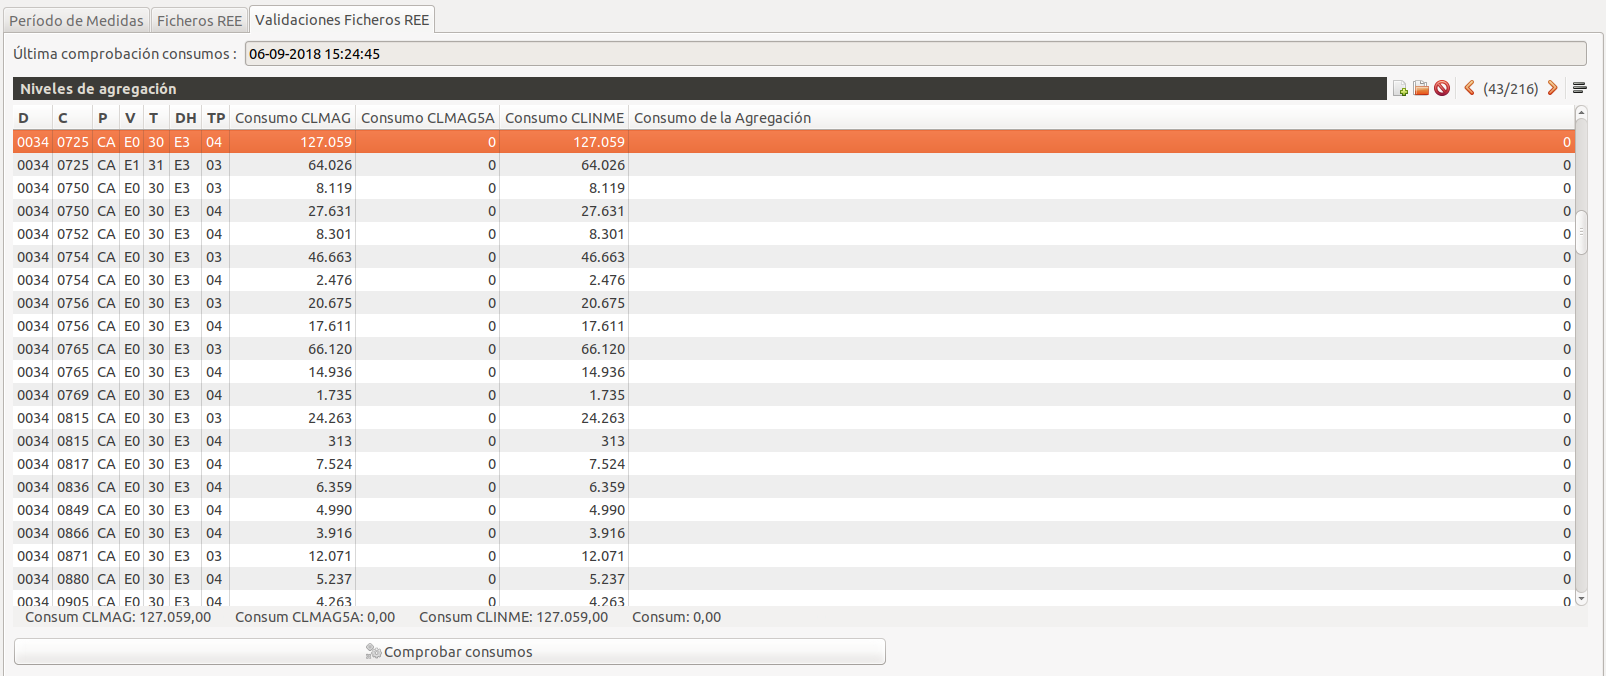
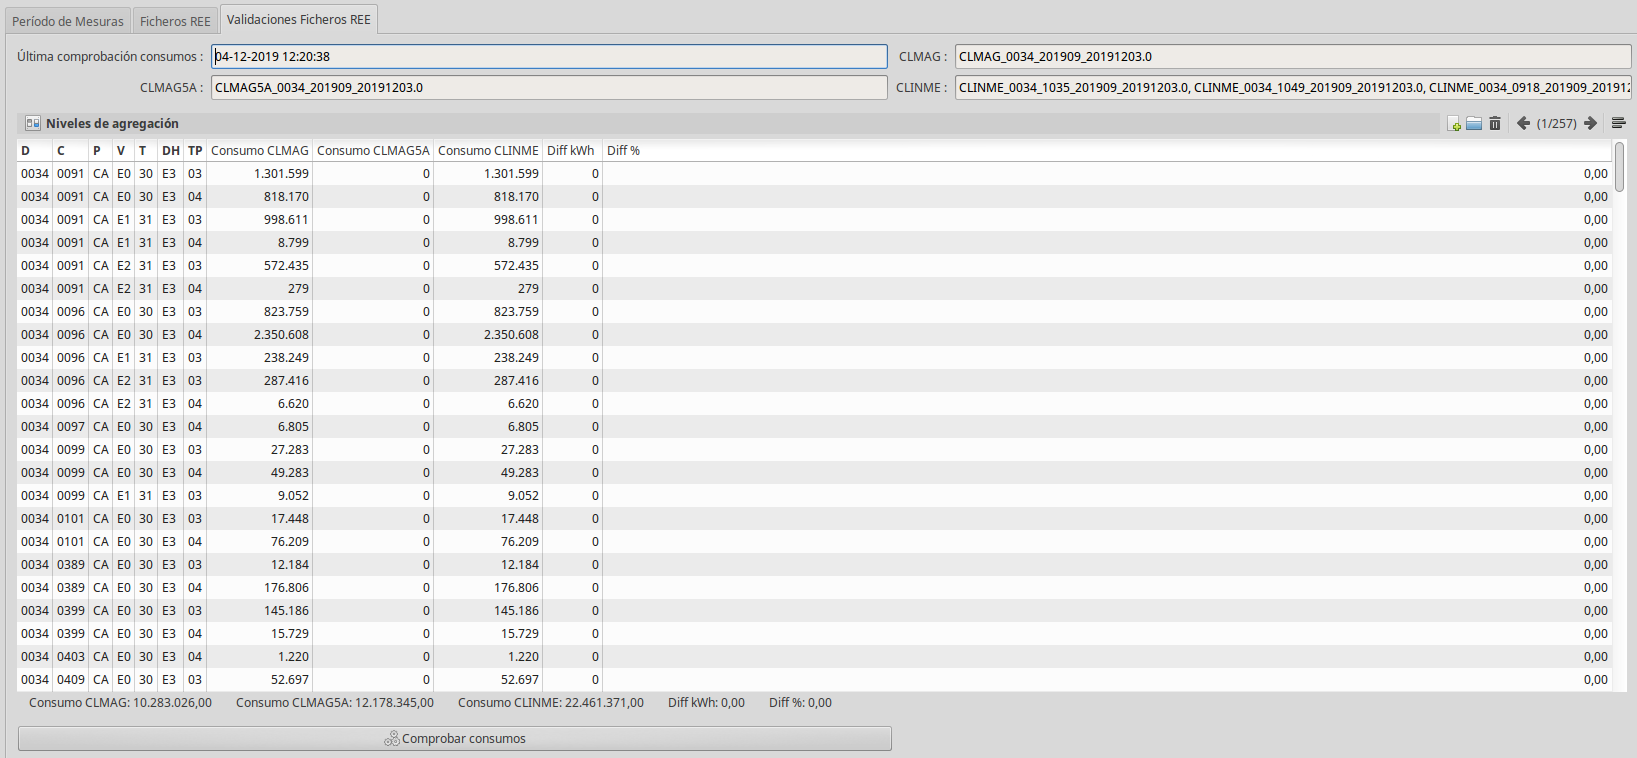
Add more medidas distri info

diff --git a/docs/distri/medidas.md b/docs/distri/medidas.md
@@ -20,10 +20,14 @@ factura o CUPS. Aquests es calculen automàticament a l'obrir la factura.
 
 * Períodes de Mesures: Mostra l'estat i el progrés dels períodes de mesures.
 * Tancaments: Visualitza les dates d'entrega dels fitxers de REE (M+1, M+3...).
+* Fitxers Exportats: Generació i emmagatzematge de fitxers desagregats.
 * Casos de perfilació: Casos CRM que reporten el comportament al perfilar.
 * Casos de mesures: Casos CRM que reporten el comportament al generar els
 fitxers de mesures.
 * Crear períodes de Mesures: Assistent que permet crear els períodes segons any.
+* Generar informe de consums: Assistent per generar un informe del consum per tarifa
+* configuració: Configuració general del módul
+
 
 ![](_static/medidas/menu_general.png)
 
@@ -158,6 +162,12 @@ pantalla com la imatge que segueix, o utilitzant el botó **Adjunts**.
 
 ![](_static/medidas/adjunts.png)
 
+!!! Info "Generació AGCL"
+    Per la generació de l'AGCL, es pot fer servir l'AGCL de l'operador del
+    sistema del mes passat, que porta l'inventari d'agregacions
+
+![](_static/medidas/generacion_agcl.png)
+
 ## Validacions fitxers REE
 
 ### Integritat de fitxers
@@ -170,7 +180,10 @@ validació agrega l'energía del CLINME i la compara amb el CLMAG o el CLMAG5A
 segons el Tipus de punt (ex: els Tipus 3 estarán en el CLMAG). Per tant
 l'energía total de cada agregació hauria de ser la mateixa tant en el CLINME
 com en el CLMAG/CLMAG5A. Per a realitzar aquesta validació, s'utilitza la
-pestanya **Validacions Fitxers REE** i el botó **Comprovar consums**.
+pestanya **Validacions Fitxers REE** i el botó **Comprovar consums**. Es
+demanarà per quins fitxers es vol realitzar la comprovació per si es tenen
+varies versions generades. S'en indiquen la data de comprovació i els fitxers
+contrastats.
 
 ![](_static/medidas/validacions_fitxers.png)
 

diff --git a/docs/distri/herramientas_medidas.md b/docs/distri/herramientas_medidas.md
@@ -24,6 +24,19 @@ comercialitzadora.
 El fitxer es generará en **segon pla**, i s'inclourá com **adjunt en el propi
 període de mesures**.
 
+## Comparar consums amb altres mesos
+
+Per fer una comparativa del consum actual amb el consum d'altres mesos, es pot
+fer servir l'asistent **Comparar agregacions amb altres mesos** a cada període
+de mesures concret.
+
+* Període: automàticament i per defecte escull el mes anterior, pero es pot fer
+servir el que es vulgui.
+* % Diferéncia: es un tupall el cual serveix per mostrar només les agregacions
+ona la diferéncia l'igualin o el superin
+
+![](_static/medidas/comparar_aggs_otros_meses.png)
+
 ## Informe de consums
 
 En el menú **Mesures REE > Utilitats > Generar informde de consums**, es genera
